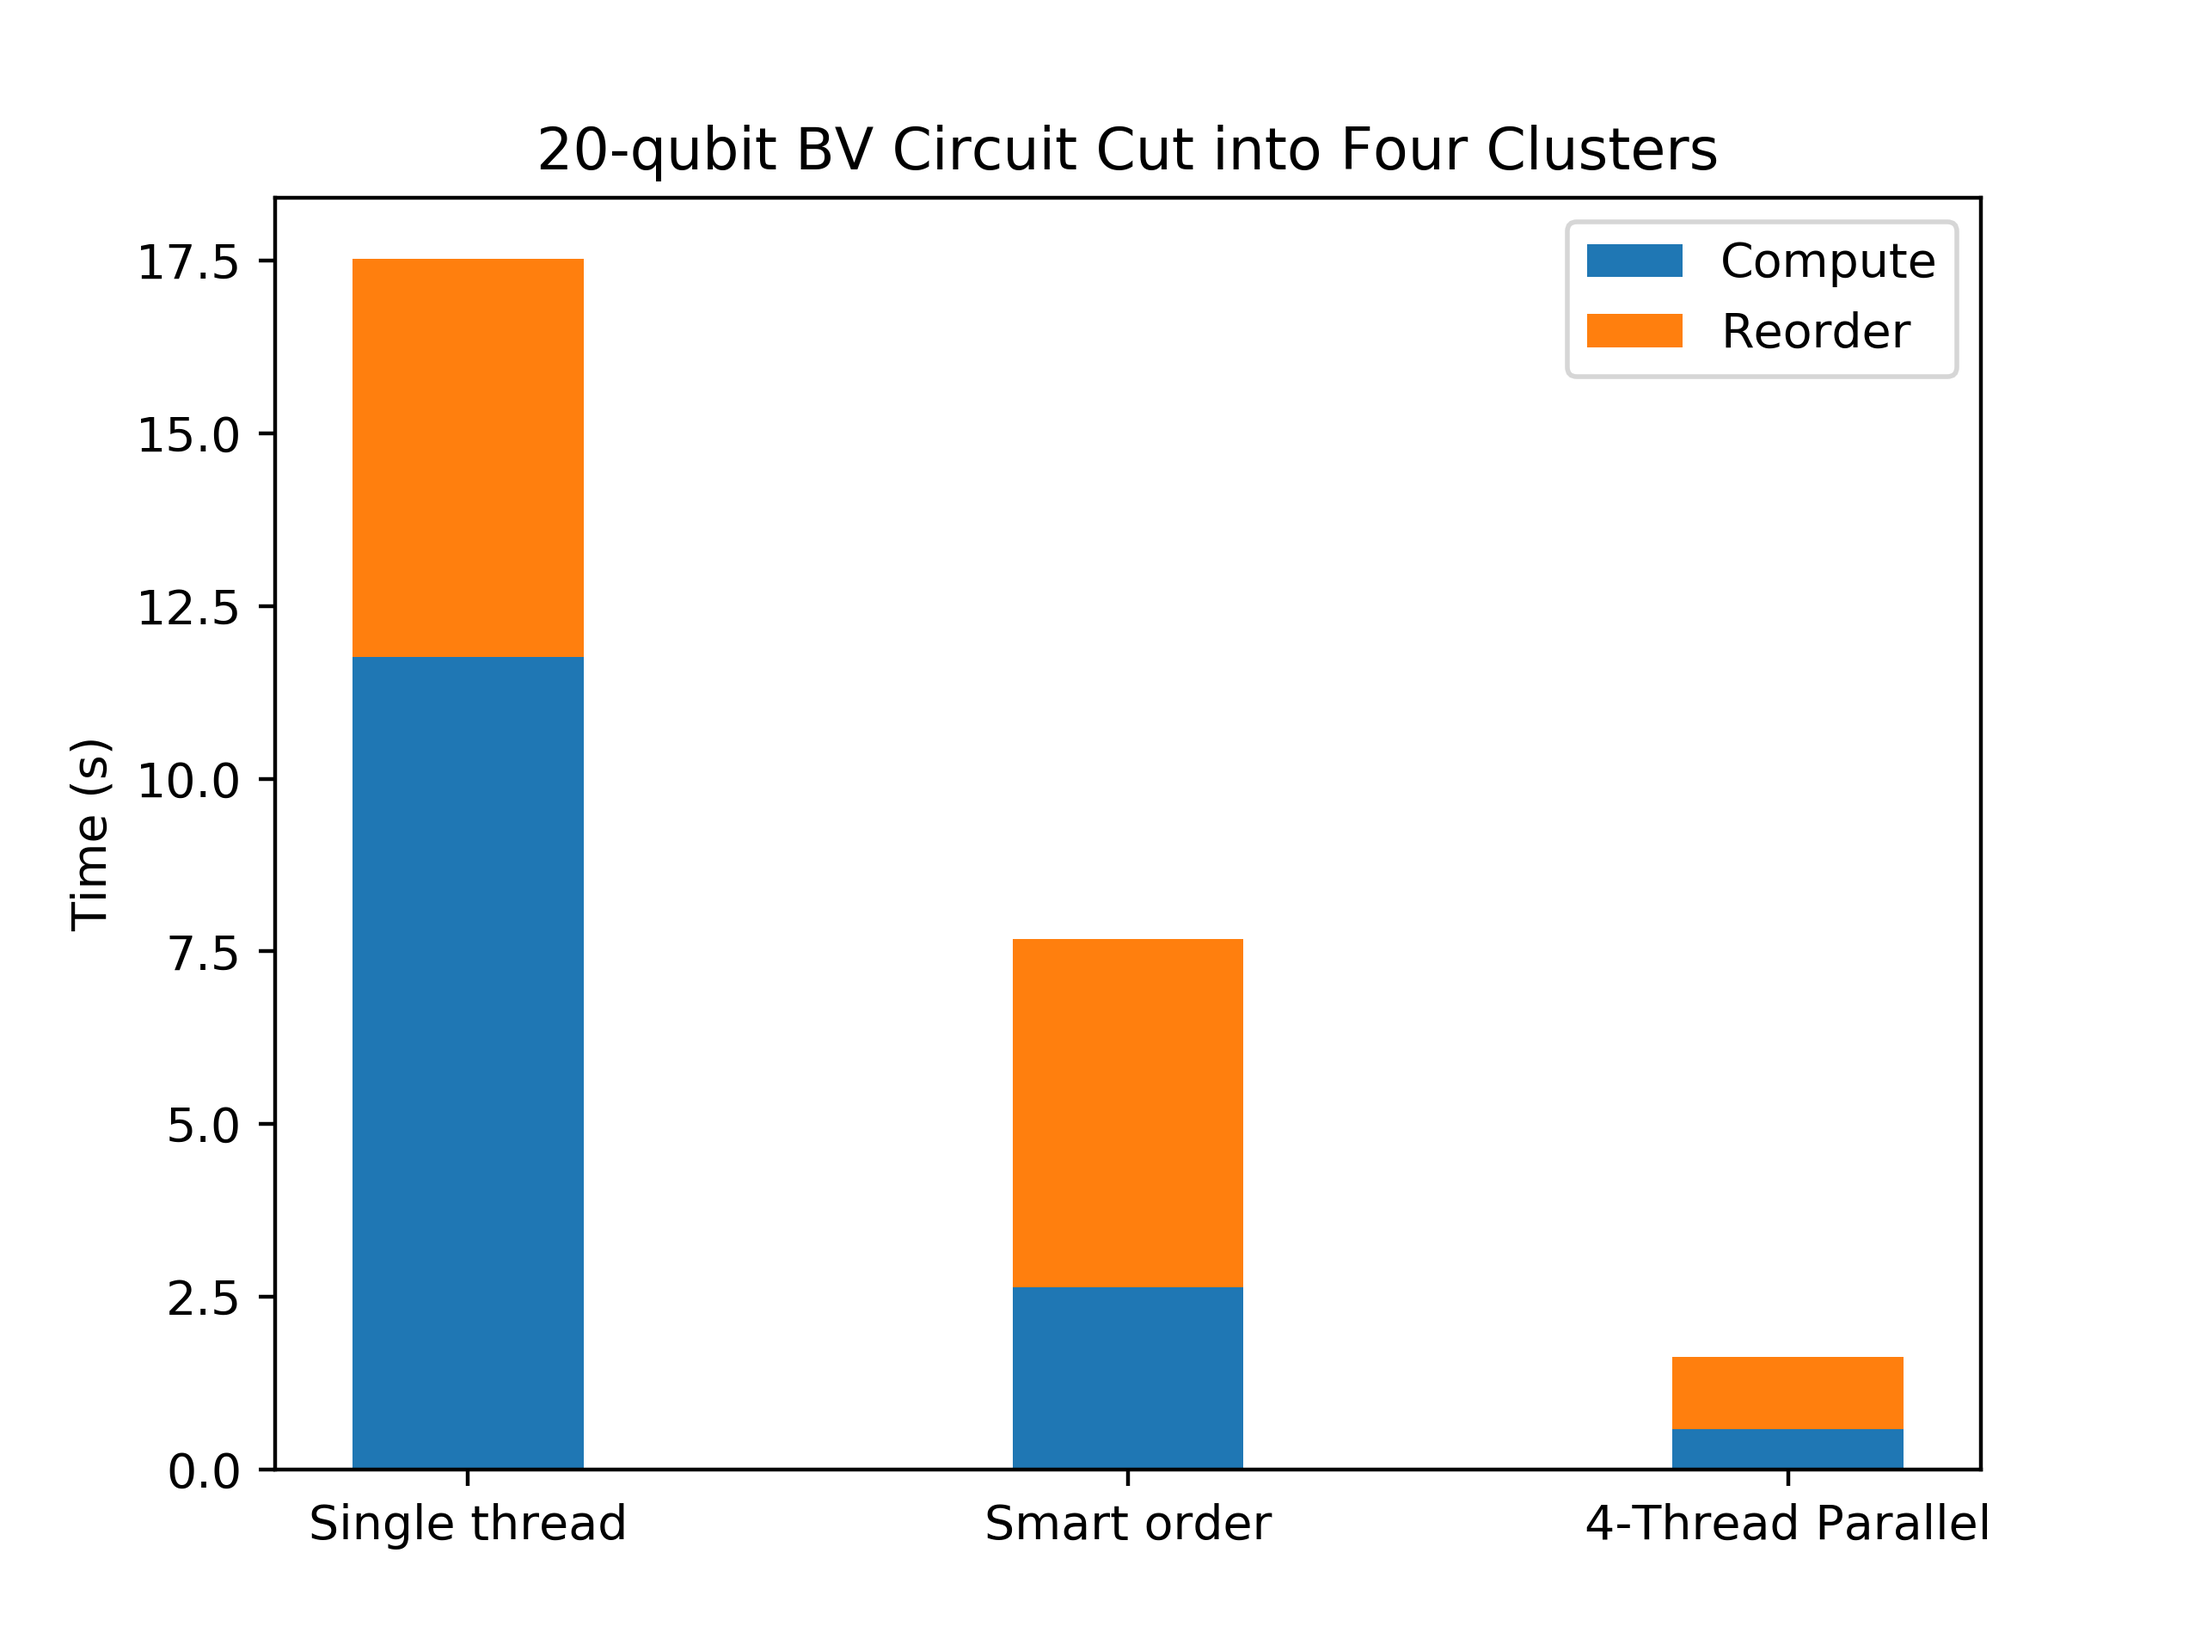
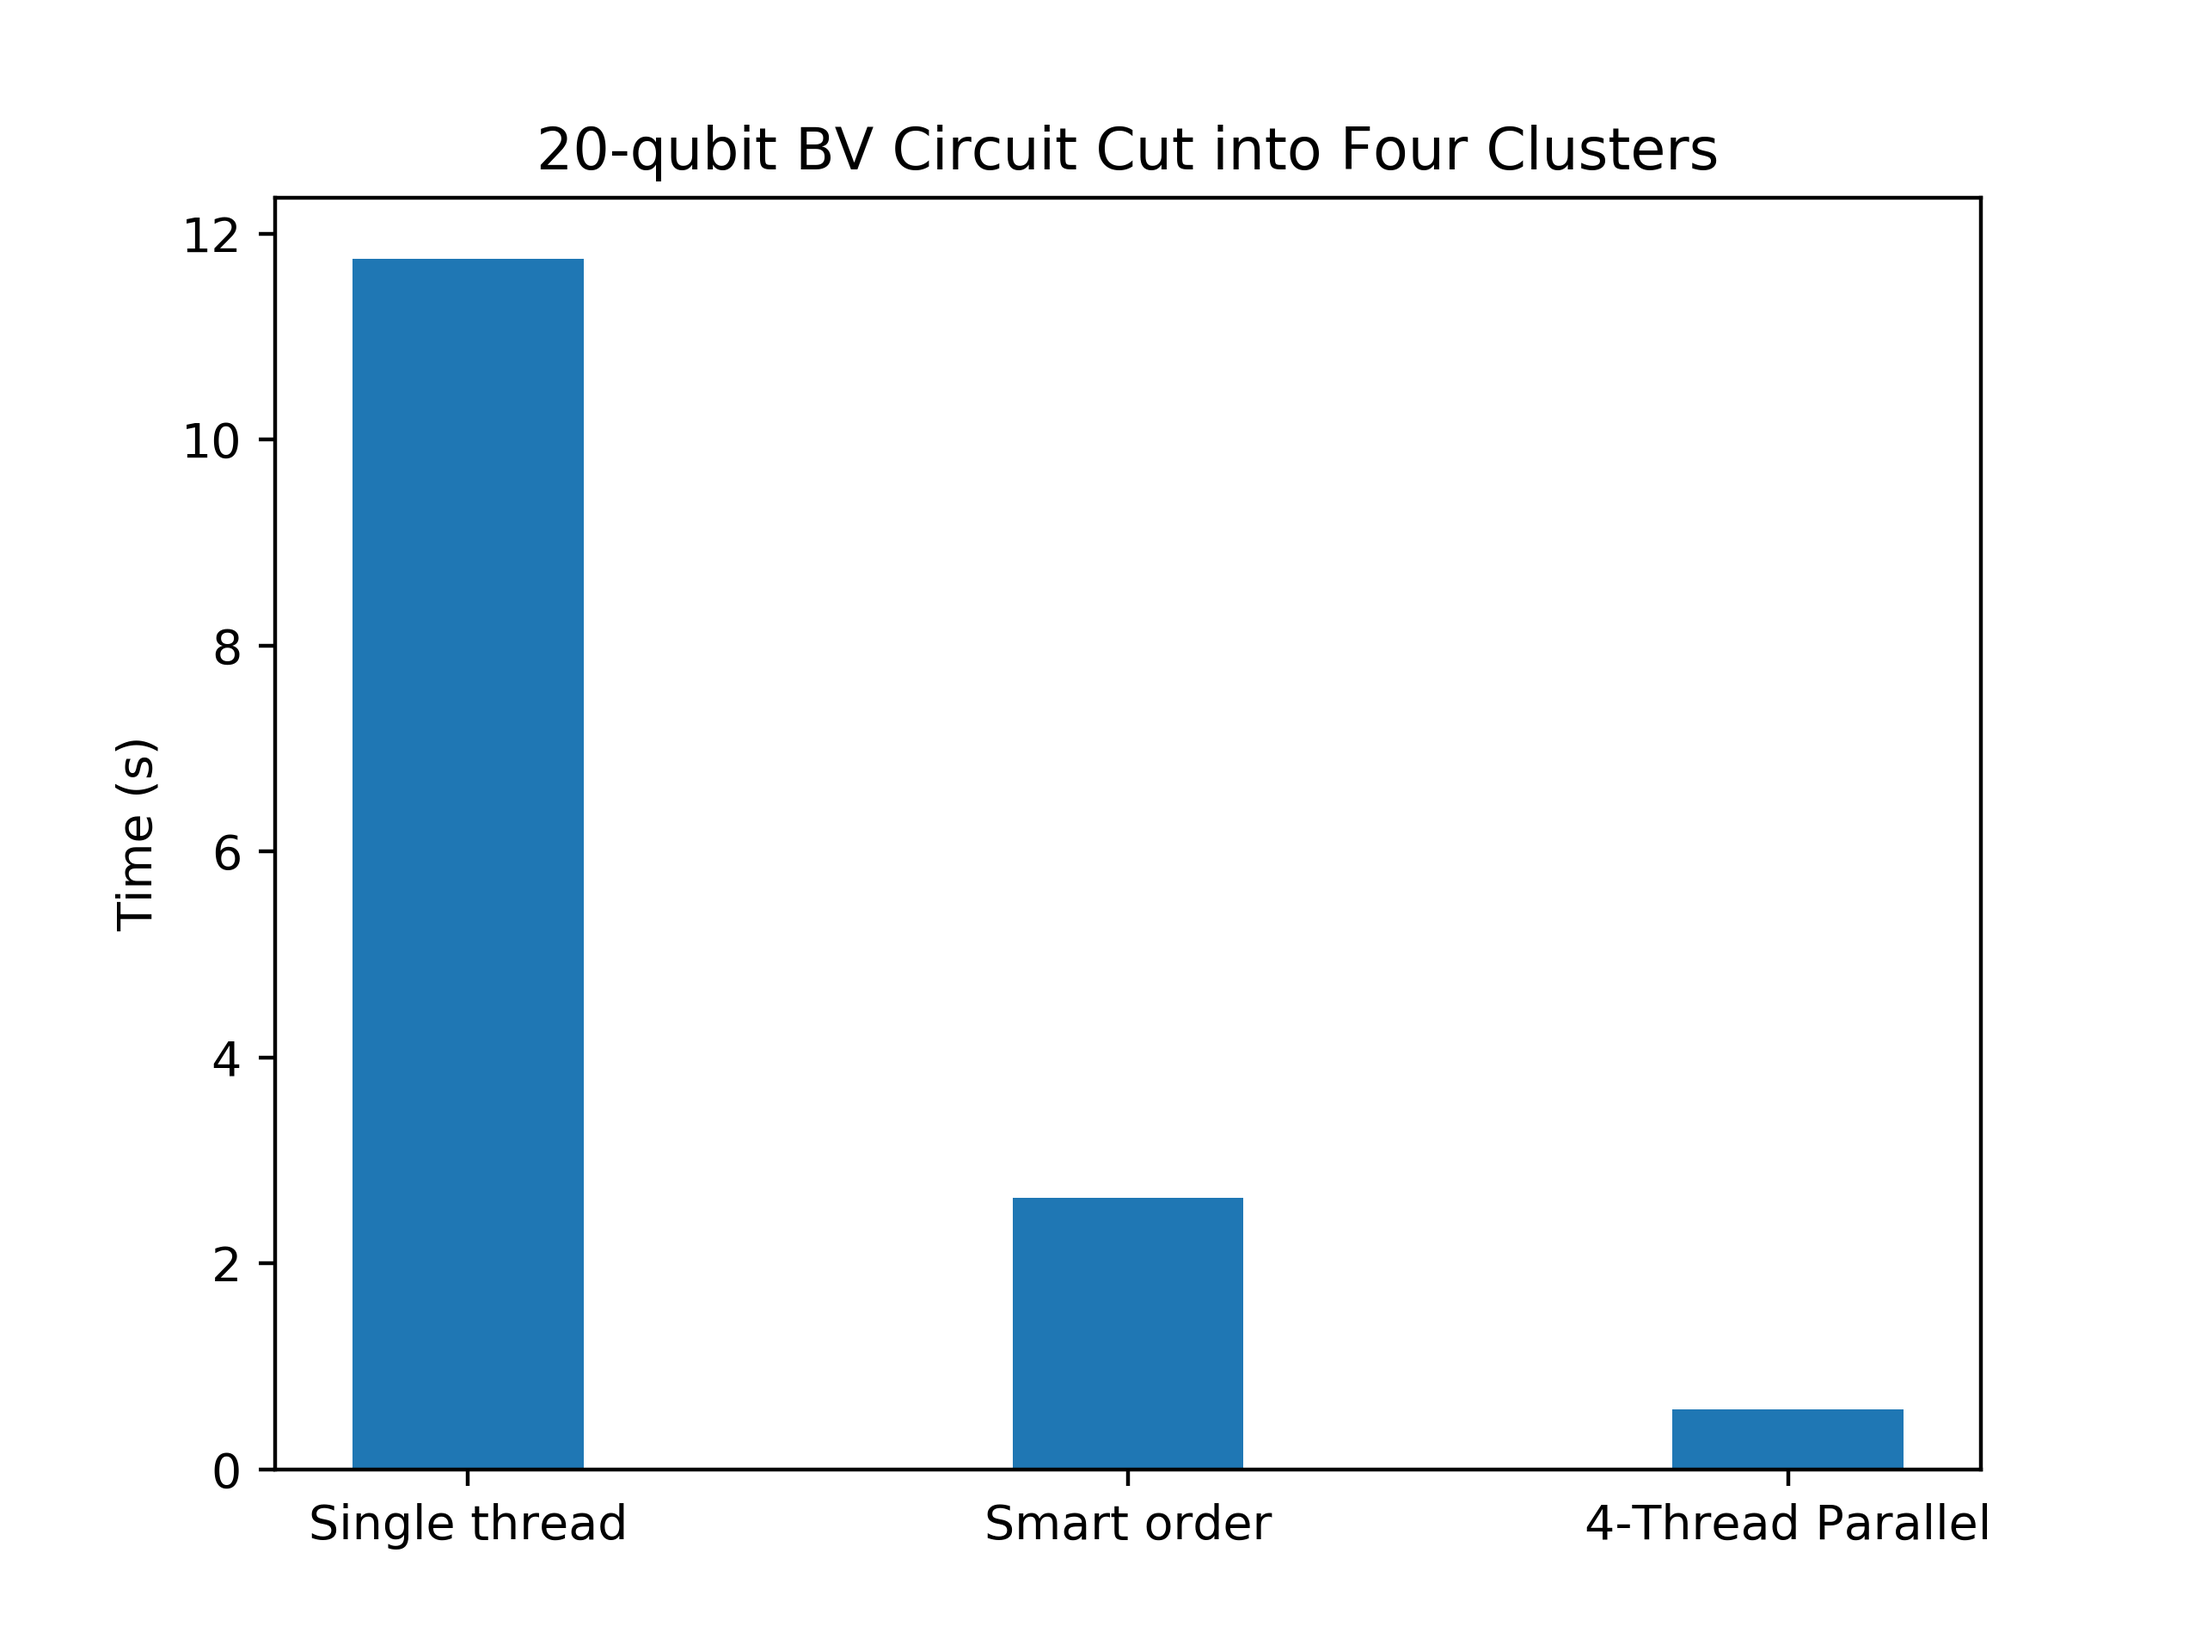
update

diff --git a/make_revision_plot.py b/make_revision_plot.py
@@ -13,12 +13,12 @@ ind = np.arange(len(compute_time))    # the x locations for the groups
 width = 0.35       # the width of the bars: can also be len(x) sequence
 
 p1 = plt.bar(ind, compute_time, width)
-p2 = plt.bar(ind, reorder_time, width,bottom=compute_time)
+# p2 = plt.bar(ind, reorder_time, width,bottom=compute_time)
 
 plt.ylabel('Time (s)')
 plt.title('20-qubit BV Circuit Cut into Four Clusters')
 plt.xticks(ind, ('Single thread', 'Smart order', '4-Thread Parallel'))
 # plt.yticks(np.arange(0, 81, 10))
-plt.legend((p1[0], p2[0]), ('Compute', 'Reorder'))
+# plt.legend((p1[0]), ['Compute'])
 
 plt.savefig('./large_on_small/techniques_demonstration.png',dpi=400)
